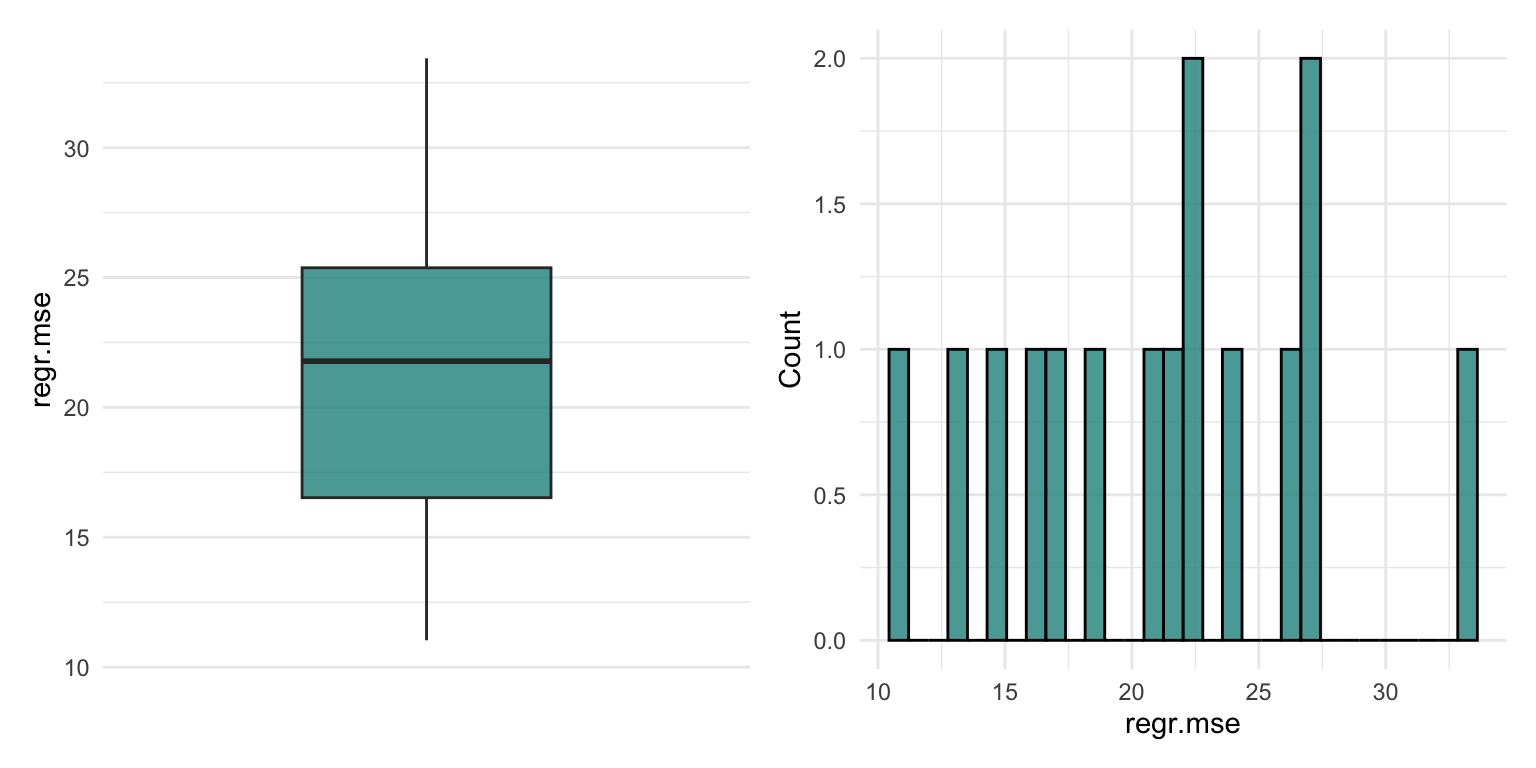
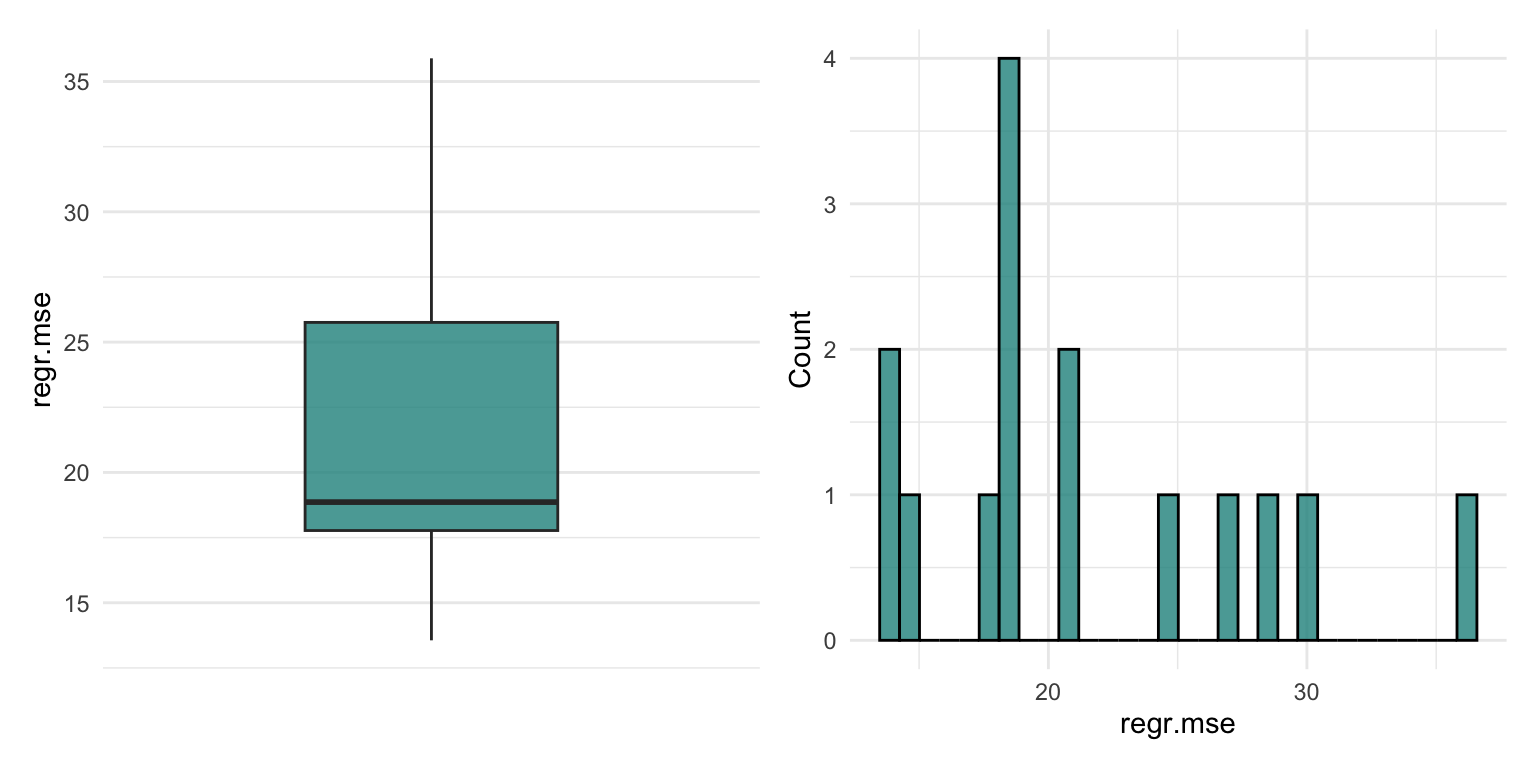
Built site for gh-pages

diff --git a/index.html b/index.html
@@ -227,7 +227,7 @@ window.Quarto = {
 
 <div class="quarto-listing quarto-listing-container-default" id="listing-listing">
 <div class="list quarto-listing-default">
-<div class="quarto-post image-right" data-index="0" data-categories="Y29kZSUyQ3IlMkNtYWNoaW5lJTIwbGVhcm5pbmclMkNtbHIz" data-listing-date-sort="1742515200000" data-listing-file-modified-sort="1742569089183" data-listing-date-modified-sort="NaN" data-listing-reading-time-sort="15" data-listing-word-count-sort="2840">
+<div class="quarto-post image-right" data-index="0" data-categories="Y29kZSUyQ3IlMkNtYWNoaW5lJTIwbGVhcm5pbmclMkNtbHIz" data-listing-date-sort="1742515200000" data-listing-file-modified-sort="1742569233977" data-listing-date-modified-sort="NaN" data-listing-reading-time-sort="15" data-listing-word-count-sort="2840">
 <div class="thumbnail">
 <p><a href="./posts/08-mlr3_evaluation_benchmarking/index.html" class="no-external"></a></p><a href="./posts/08-mlr3_evaluation_benchmarking/index.html" class="no-external">
 <p><img loading="lazy" src="./posts/08-mlr3_evaluation_benchmarking/fig/mlr3_logo.svg" class="thumbnail-image"></p>
@@ -269,7 +269,7 @@ Paul Smith
 </a>
 </div>
 </div>
[2 lines of base64/hex data omitted]
 <div class="thumbnail">
 <p><a href="./posts/07-stepwise_datasplitting_simulation/index.html" class="no-external"></a></p><a href="./posts/07-stepwise_datasplitting_simulation/index.html" class="no-external">
 <p class="card-img-top"><img src="posts/07-stepwise_datasplitting_simulation/index_files/figure-html/fig-coef-box-1.png"  class="thumbnail-image card-img"/></p>
@@ -314,7 +314,7 @@ Paul Smith
 </a>
 </div>
 </div>
[2 lines of base64/hex data omitted]
 <div class="thumbnail">
 <p><a href="./posts/06-stepwise_datasplitting/index.html" class="no-external"></a></p><a href="./posts/06-stepwise_datasplitting/index.html" class="no-external">
 <div class="listing-item-img-placeholder card-img-top" >&nbsp;</div>
@@ -359,7 +359,7 @@ Paul Smith
 </a>
 </div>
 </div>
-<div class="quarto-post image-right" data-index="3" data-categories="Y29kZSUyQ3IlMkNtYWNoaW5lJTIwbGVhcm5pbmclMkNtbHIz" data-listing-date-sort="1740960000000" data-listing-file-modified-sort="1742569089182" data-listing-date-modified-sort="NaN" data-listing-reading-time-sort="7" data-listing-word-count-sort="1283">
+<div class="quarto-post image-right" data-index="3" data-categories="Y29kZSUyQ3IlMkNtYWNoaW5lJTIwbGVhcm5pbmclMkNtbHIz" data-listing-date-sort="1740960000000" data-listing-file-modified-sort="1742569233977" data-listing-date-modified-sort="NaN" data-listing-reading-time-sort="7" data-listing-word-count-sort="1283">
 <div class="thumbnail">
 <p><a href="./posts/05-mlr3_basic_modelling/index.html" class="no-external"></a></p><a href="./posts/05-mlr3_basic_modelling/index.html" class="no-external">
 <p><img loading="lazy" src="./posts/05-mlr3_basic_modelling/fig/mlr3_logo.svg" class="thumbnail-image"></p>
@@ -401,7 +401,7 @@ Paul Smith
 </a>
 </div>
 </div>
-<div class="quarto-post image-right" data-index="4" data-categories="Y29kZSUyQ2dyYXBoaWNzJTJDcg==" data-listing-date-sort="1739923200000" data-listing-file-modified-sort="1742569089182" data-listing-date-modified-sort="NaN" data-listing-reading-time-sort="7" data-listing-word-count-sort="1257">
+<div class="quarto-post image-right" data-index="4" data-categories="Y29kZSUyQ2dyYXBoaWNzJTJDcg==" data-listing-date-sort="1739923200000" data-listing-file-modified-sort="1742569233977" data-listing-date-modified-sort="NaN" data-listing-reading-time-sort="7" data-listing-word-count-sort="1257">
 <div class="thumbnail">
 <p><a href="./posts/04-highcharter_bar/index.html" class="no-external"></a></p><a href="./posts/04-highcharter_bar/index.html" class="no-external">
 <p><img loading="lazy" src="./posts/04-highcharter_bar/fig/highcharter_logo.png" class="thumbnail-image"></p>
@@ -440,7 +440,7 @@ Paul Smith
 </a>
 </div>
 </div>
-<div class="quarto-post image-right" data-index="5" data-categories="Y29kZSUyQ2dyYXBoaWNzJTJDcg==" data-listing-date-sort="1736640000000" data-listing-file-modified-sort="1742569089182" data-listing-date-modified-sort="NaN" data-listing-reading-time-sort="19" data-listing-word-count-sort="3657">
+<div class="quarto-post image-right" data-index="5" data-categories="Y29kZSUyQ2dyYXBoaWNzJTJDcg==" data-listing-date-sort="1736640000000" data-listing-file-modified-sort="1742569233976" data-listing-date-modified-sort="NaN" data-listing-reading-time-sort="19" data-listing-word-count-sort="3657">
 <div class="thumbnail">
 <p><a href="./posts/03-highcharter_graphs/index.html" class="no-external"></a></p><a href="./posts/03-highcharter_graphs/index.html" class="no-external">
 <p><img loading="lazy" src="./posts/03-highcharter_graphs/fig/highcharter_logo.png" class="thumbnail-image"></p>
@@ -479,7 +479,7 @@ Paul Smith
 </a>
 </div>
 </div>
-<div class="quarto-post image-right" data-index="6" data-categories="Z2VuZXRpY3MlMkNnd2FzJTJDbWVuZGVsaWFuJTIwcmFuZG9taXNhdGlvbg==" data-listing-date-sort="1736553600000" data-listing-file-modified-sort="1742569089181" data-listing-date-modified-sort="NaN" data-listing-reading-time-sort="4" data-listing-word-count-sort="782">
+<div class="quarto-post image-right" data-index="6" data-categories="Z2VuZXRpY3MlMkNnd2FzJTJDbWVuZGVsaWFuJTIwcmFuZG9taXNhdGlvbg==" data-listing-date-sort="1736553600000" data-listing-file-modified-sort="1742569233976" data-listing-date-modified-sort="NaN" data-listing-reading-time-sort="4" data-listing-word-count-sort="782">
 <div class="thumbnail">
 <p><a href="./posts/02-mandelian_randomisation/index.html" class="no-external"></a></p><a href="./posts/02-mandelian_randomisation/index.html" class="no-external">
 <p><img loading="lazy" src="./posts/02-mandelian_randomisation/fig/mendel.jpg" class="thumbnail-image"></p>
@@ -518,7 +518,7 @@ Paul Smith
 </a>
 </div>
 </div>
-<div class="quarto-post image-right" data-index="7" data-categories="Y29kZSUyQ2FjY2Vzc2liaWxpdHklMkNncmFwaGljcyUyQ3I=" data-listing-date-sort="1734307200000" data-listing-file-modified-sort="1742569089176" data-listing-date-modified-sort="NaN" data-listing-reading-time-sort="12" data-listing-word-count-sort="2274">
+<div class="quarto-post image-right" data-index="7" data-categories="Y29kZSUyQ2FjY2Vzc2liaWxpdHklMkNncmFwaGljcyUyQ3I=" data-listing-date-sort="1734307200000" data-listing-file-modified-sort="1742569233971" data-listing-date-modified-sort="NaN" data-listing-reading-time-sort="12" data-listing-word-count-sort="2274">
 <div class="thumbnail">
 <p><a href="./posts/01-highcharter/index.html" class="no-external"></a></p><a href="./posts/01-highcharter/index.html" class="no-external">
 <p><img loading="lazy" src="./posts/01-highcharter/fig/highcharter_logo.png" class="thumbnail-image"></p>

diff --git a/posts/08-mlr3_evaluation_benchmarking/index.html b/posts/08-mlr3_evaluation_benchmarking/index.html
@@ -308,7 +308,15 @@ window.Quarto = {
 Lang, Michel, Martin Binder, Jakob Richter, Patrick Schratz, Florian Pfisterer, Stefan Coors, Quay Au, Giuseppe Casalicchio, Lars Kotthoff, and Bernd Bischl. 2019. <span>“<span class="nocase">mlr3</span>: A Modern Object-Oriented Machine Learning Framework in <span>R</span>.”</span> <em>Journal of Open Source Software</em>, December. <a href="https://doi.org/10.21105/joss.01903">https://doi.org/10.21105/joss.01903</a>.
 </div><div id="ref-bischl2024usingmlr3" class="csl-entry" role="listitem">
 Bischl, Bernd, Raphael Sonabend, Lars Kotthoff, and Michel Lang, eds. 2024. <em>Applied Machine Learning Using <span class="nocase">m</span>lr3 in <span>R</span></em>. CRC Press. <a href="https://mlr3book.mlr-org.com">https://mlr3book.mlr-org.com</a>.
-</div></div><p>My previous posts include: - <a href="../../posts/05-mlr3_basic_modelling/index.html">Part one</a>: - Create a classification tree model to predict diabetes. - Look at the confusion matrix and create measures without using {mlr3measures}. - Change the thresholds in the model.</p>
+</div></div><p>My previous posts include:</p>
+<ul>
+<li><a href="../../posts/05-mlr3_basic_modelling/index.html">Part one</a>:
+<ul>
+<li>Create a classification tree model to predict diabetes.</li>
+<li>Look at the confusion matrix and create measures without using {mlr3measures}.</li>
+<li>Change the thresholds in the model.</li>
+</ul></li>
+</ul>
 <p>In this second blog post, I am going through the exercises given in Section 3 <span class="citation" data-cites="casalicchio2024evaluation">(<a href="#ref-casalicchio2024evaluation" role="doc-biblioref">Casalicchio and Burk 2024</a>)</span>. This involves using repeated cross-validation resampling, using a custom resampling strategy, and creating a function that produces a ROC.</p>
 <div class="no-row-height column-margin column-container"><div id="ref-casalicchio2024evaluation" class="csl-entry" role="listitem">
 Casalicchio, Giuseppe, and Lukas Burk. 2024. <span>“Evaluation and Benchmarking.”</span> In <em>Applied Machine Learning Using <span class="nocase">m</span>lr3 in <span>R</span></em>, edited by Bernd Bischl, Raphael Sonabend, Lars Kotthoff, and Michel Lang. CRC Press. <a href="https://mlr3book.mlr-org.com/evaluation_and_benchmarking.html">https://mlr3book.mlr-org.com/evaluation_and_benchmarking.html</a>.
@@ -432,21 +440,21 @@ Casalicchio, Giuseppe, and Lukas Burk. 2024. <span>“Evaluation and Benchmarkin
 <div class="cell-output cell-output-stdout">
 <pre><code>    task_id learner_id resampling_id iteration regr.mse
      &lt;char&gt;     &lt;char&gt;        &lt;char&gt;     &lt;int&gt;    &lt;num&gt;
- 1:  mtcars regr.rpart   repeated_cv         1 24.22522
- 2:  mtcars regr.rpart   repeated_cv         2 14.59758
- 3:  mtcars regr.rpart   repeated_cv         3 33.43807
- 4:  mtcars regr.rpart   repeated_cv         4 21.23417
- 5:  mtcars regr.rpart   repeated_cv         5 18.63858
- 6:  mtcars regr.rpart   repeated_cv         6 26.52406
- 7:  mtcars regr.rpart   repeated_cv         7 16.28326
- 8:  mtcars regr.rpart   repeated_cv         8 27.10835
- 9:  mtcars regr.rpart   repeated_cv         9 21.77850
-10:  mtcars regr.rpart   repeated_cv        10 27.13531
-11:  mtcars regr.rpart   repeated_cv        11 16.76295
-12:  mtcars regr.rpart   repeated_cv        12 22.63867
-13:  mtcars regr.rpart   repeated_cv        13 22.08690
-14:  mtcars regr.rpart   repeated_cv        14 12.84575
-15:  mtcars regr.rpart   repeated_cv        15 11.03230
+ 1:  mtcars regr.rpart   repeated_cv         1 18.86200
+ 2:  mtcars regr.rpart   repeated_cv         2 14.62213
+ 3:  mtcars regr.rpart   repeated_cv         3 27.20238
+ 4:  mtcars regr.rpart   repeated_cv         4 18.19663
+ 5:  mtcars regr.rpart   repeated_cv         5 24.31141
+ 6:  mtcars regr.rpart   repeated_cv         6 28.51660
+ 7:  mtcars regr.rpart   repeated_cv         7 13.74869
+ 8:  mtcars regr.rpart   repeated_cv         8 18.09771
+ 9:  mtcars regr.rpart   repeated_cv         9 30.01980
+10:  mtcars regr.rpart   repeated_cv        10 18.83330
+11:  mtcars regr.rpart   repeated_cv        11 13.55929
+12:  mtcars regr.rpart   repeated_cv        12 35.88914
+13:  mtcars regr.rpart   repeated_cv        13 21.05378
+14:  mtcars regr.rpart   repeated_cv        14 17.44531
+15:  mtcars regr.rpart   repeated_cv        15 21.01809
 Hidden columns: task, learner, resampling, prediction_test</code></pre>
 </div>
 </div>
@@ -470,7 +478,7 @@ Hidden columns: task, learner, resampling, prediction_test</code></pre>
 <div class="sourceCode cell-code" id="cb15"><pre class="sourceCode r code-with-copy"><code class="sourceCode r"><span id="cb15-1"><a href="#cb15-1" aria-hidden="true" tabindex="-1"></a>rr<span class="sc">$</span><span class="fu">aggregate</span>(<span class="fu">msr</span>(<span class="st">"regr.mse"</span>))</span></code><button title="Copy to Clipboard" class="code-copy-button"><i class="bi"></i></button></pre></div>
 <div class="cell-output cell-output-stdout">
 <pre><code>regr.mse 
-21.08864 </code></pre>
+21.42509 </code></pre>
 </div>
 </div>
 </section>
